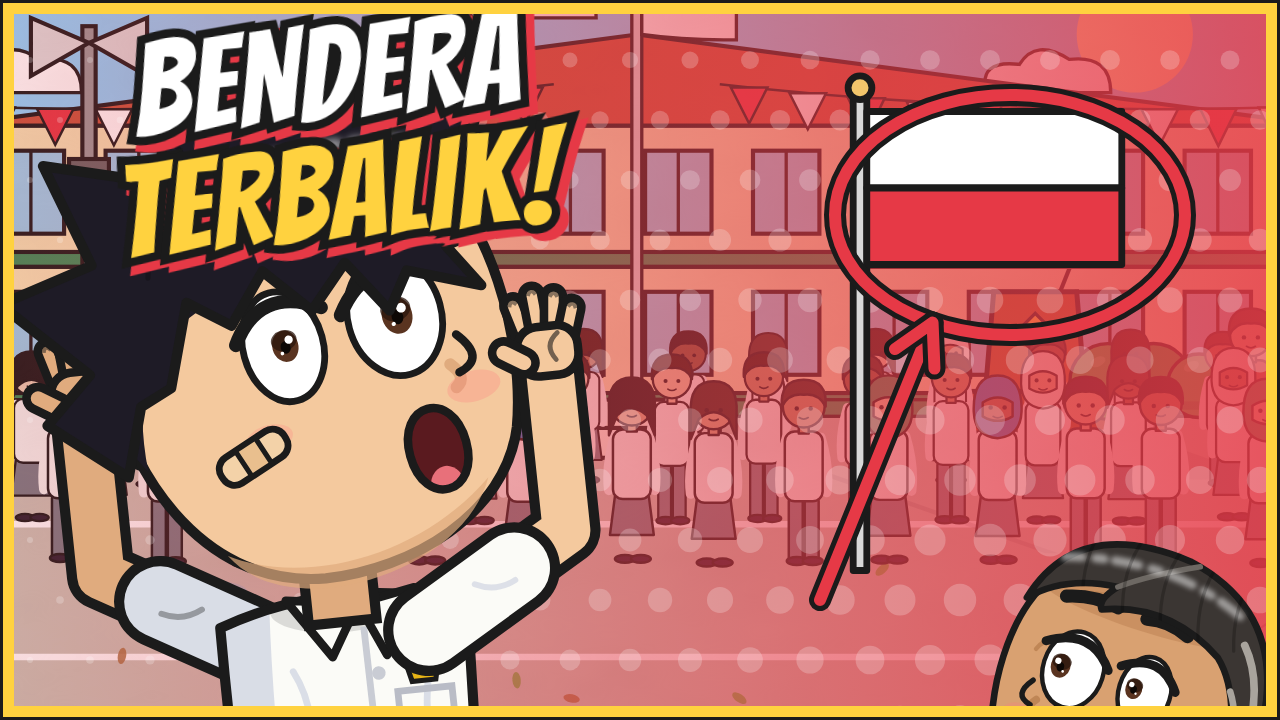
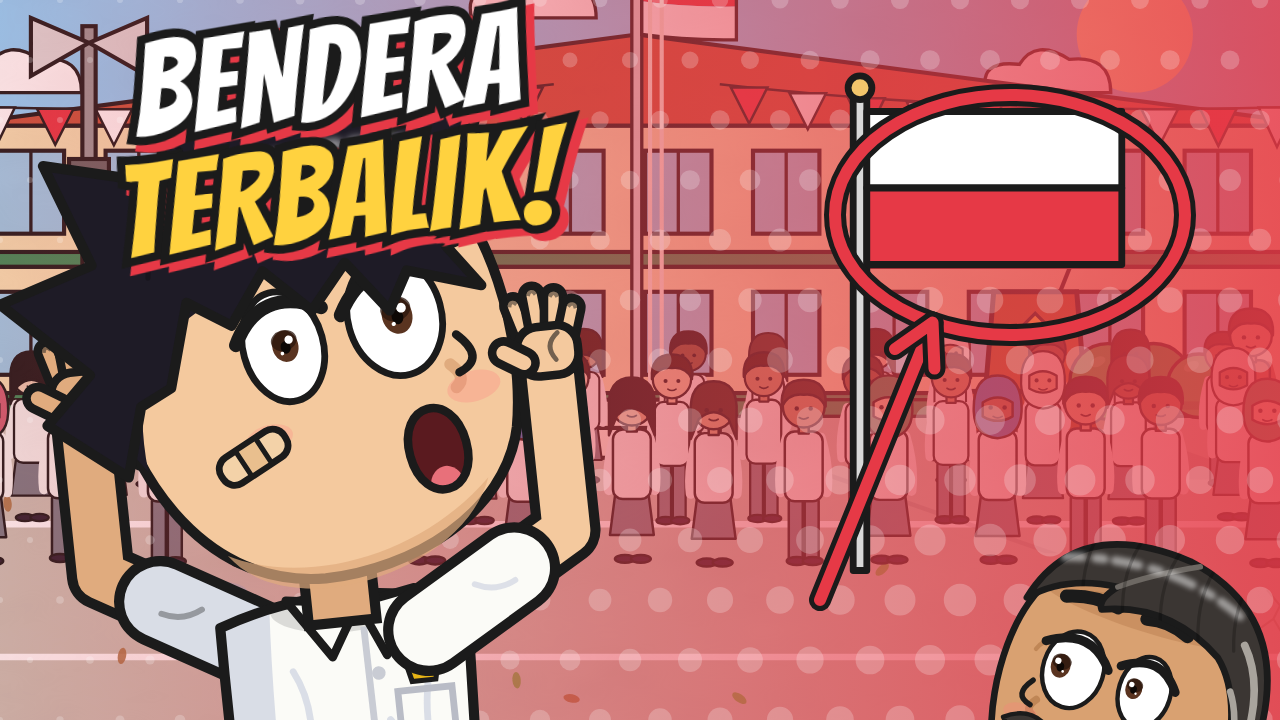
feat: thumbnail tanpa garis tepi (merek v1.10.0) — Eps. 3, Eps. 4, Shorts 1–3
- Thumbnail.tsx: bingkai kuning + hitam dihapus; "border": true hanya untuk thumbnail lama yang sudah terbit (Eps. 1–2)
- brand/thumbnails: eps03-A/B/C, eps04-A/B/C, shorts04/05/06-A dirender ulang tanpa garis tepi
- brand.json v1.10.0, BRANDING.md, skill diperbarui

Claude-Session: https://claude.ai/code/session_01K7dcc1P1qWaF9kZ3aA51Vu

diff --git a/animasi-kusaka/src/branding/Thumbnail.tsx b/animasi-kusaka/src/branding/Thumbnail.tsx
@@ -18,6 +18,7 @@ export interface ThumbProps {
   // RULE: no money / currency (Rp) props in thumbnails — story props only (e.g. the wallet)
   actors: Actor[]; prop?: "wallet" | "flagUpsideDown" | "bookStack" | "phoneDrama" | null; propX?: number; propY?: number; propScale?: number;
   // Variasi per episode (identitas tetap: bingkai kuning, Bangers kuning/putih + bayangan merah, Kusaka ekspresi ekstrem)
+  border?: boolean; // true = bingkai lama (hanya untuk thumbnail yang sudah terbit)
   pattern?: "rays" | "halftone" | "speed" | "stripes" | "grid";
   split?: { bg: LocId; angle?: number };          // layar terbelah diagonal: kiri = bg, kanan = split.bg
   callout?: { x: number; y: number; rx: number; ry: number; arrow?: { x: number; y: number } }; // lingkaran + panah merah
@@ -137,9 +138,10 @@ export const Thumbnail: React.FC<ThumbProps> = (p) => {
                 style={{ filter: `drop-shadow(8px 8px 0 ${BRAND.red})` }}>{t}</text>
             ))}
           </g>
-          {/* series frame: yellow border + black/yellow hazard corner (bottom-left, never bottom-right) */}
-          <rect x={7} y={7} width={W - 14} height={H - 14} fill="none" stroke={BRAND.yellow} strokeWidth={14} />
-          <rect x={0} y={0} width={W} height={H} fill="none" stroke={OUT} strokeWidth={6} />
+          {/* garis tepi (bingkai kuning + hitam) DIHAPUS sejak merek v1.10.0 (pilihan pemilik); hanya thumbnail lama yang
+              memakai "border": true tetap berbingkai agar identik dengan yang sudah terbit */}
+          {p.border && <rect x={7} y={7} width={W - 14} height={H - 14} fill="none" stroke={BRAND.yellow} strokeWidth={14} />}
+          {p.border && <rect x={0} y={0} width={W} height={H} fill="none" stroke={OUT} strokeWidth={6} />}
         </g>
       </svg>
     </AbsoluteFill>

diff --git a/.claude/skills/kusaka-design/SKILL.md b/.claude/skills/kusaka-design/SKILL.md
@@ -19,7 +19,7 @@ Branch kerja: `ccr-5483b159-l8zee8`.
 6. **SFX pelengkap**: volume rendah di bawah dialog, satu SFX satu makna.
 7. **Durasi**: Long ≥ 6 menit (atau `minSeconds` per episode). Shorts 40 dtk–3 mnt, ideal 40–60 dtk, naskah sendiri.
 8. **Brand**: channel *Kusaka Design*, Logo 2, Banner 3, watermark Shorts = Contoh 5 (hanya Shorts).
-   Judul video: `[hook + emosi] | KUSAKA`, tanpa nomor episode. Thumbnail: teks hanya judul, tanpa nomor episode, **tanpa uang/Rp**. Identitas tetap (bingkai kuning, font Bangers, Kusaka ekspresi ekstrem)
+   Judul video: `[hook + emosi] | KUSAKA`, tanpa nomor episode. Thumbnail: teks hanya judul, tanpa nomor episode, **tanpa uang/Rp**. Identitas tetap (TANPA garis tepi sejak v1.10.0, font Bangers, Kusaka ekspresi ekstrem)
    tetapi **komposisi berbeda tiap episode dan tiap varian** (pola, split, callout, properti, warna) — lihat `brand/BRANDING.md`.
 9. Rilis final di `animasi-kusaka/releases/` (< 100 MB, `ffmpeg -c:v libx264 -tune animation -crf 29`).
 10. **Setiap MP4 rilis wajib punya `src/data/episodes/<id>-upload.md`** mengikuti `upload-template.md`

diff --git a/animasi-kusaka/brand/BRANDING.md b/animasi-kusaka/brand/BRANDING.md
@@ -81,7 +81,7 @@ Teks banner dibuat **singkat tapi jelas**: hanya **KUSAKA DESIGN** + label **ANI
 ---
 
 ## Sistem thumbnail (v1.3.0): identitas tetap, komposisi berbeda tiap episode
-**Tetap (agar dikenali di beranda/halaman saran):** bingkai kuning + hitam, judul Bangers (putih/kuning, outline hitam, bayangan merah),
+**Tetap (agar dikenali di beranda/halaman saran):** TANPA garis tepi (sejak merek v1.10.0; thumbnail yang sudah terbit tetap berbingkai lewat `"border": true`), judul Bangers (putih/kuning, outline hitam, bayangan merah),
 Kusaka dengan ekspresi ekstrem, maksimal 4 kata, tanpa nomor episode, pojok kanan bawah kosong, tanpa uang/Rp.
 **Berubah tiap episode (agar tidak terlihat seperti video yang sama):** pola latar (`pattern`: rays / halftone / speed / stripes),
 layar terbelah diagonal (`split`), sorotan lingkaran + panah merah (`callout`), properti cerita (dompet, bendera terbalik, dll.),
